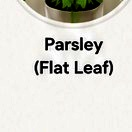
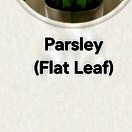
27

diff --git a/sw.js b/sw.js
@@ -1,5 +1,5 @@
-const CACHE='plant-secretary-v49';
-const ASSETS=['./','./index.html','./style.css?v=49','./app.js?v=49','./manifest.json?v=49','./icon.svg?v=49'];
+const CACHE='plant-secretary-v50';
+const ASSETS=['./','./index.html','./style.css?v=50','./app.js?v=50','./manifest.json?v=50','./icon.svg?v=50'];
 self.addEventListener('install',e=>e.waitUntil(caches.open(CACHE).then(c=>c.addAll(ASSETS)).then(()=>self.skipWaiting())));
 self.addEventListener('activate',e=>e.waitUntil(caches.keys().then(keys=>Promise.all(keys.filter(k=>k!==CACHE).map(k=>caches.delete(k)))).then(()=>self.clients.claim())));
 self.addEventListener('fetch',e=>{if(e.request.method!=='GET')return;e.respondWith(fetch(e.request).then(r=>{const copy=r.clone();caches.open(CACHE).then(c=>c.put(e.request,copy));return r;}).catch(()=>caches.match(e.request).then(r=>r||caches.match('./index.html'))));});

diff --git a/index.html b/index.html
@@ -7,9 +7,9 @@
   <meta name="apple-mobile-web-app-capable" content="yes" />
   <meta name="apple-mobile-web-app-status-bar-style" content="default" />
   <meta name="apple-mobile-web-app-title" content="Plant Secretary" />
-  <link rel="manifest" href="manifest.json?v=49" />
-  <link rel="apple-touch-icon" href="icon.svg?v=49" />
-  <link rel="stylesheet" href="style.css?v=49" />
+  <link rel="manifest" href="manifest.json?v=50" />
+  <link rel="apple-touch-icon" href="icon.svg?v=50" />
+  <link rel="stylesheet" href="style.css?v=50" />
   <title>Plant Secretary</title>
 </head>
 <body>
@@ -76,6 +76,6 @@
     <div id="profileContent" class="profile-content"></div>
   </section>
 
-  <script src="app.js?v=49" defer></script>
+  <script src="app.js?v=50" defer></script>
 </body>
 </html>

diff --git a/app.js b/app.js
@@ -333,4 +333,4 @@ el('fortnightShortcut').addEventListener('click',()=>showView('fortnightView'));
 
 renderAll();
 
-if('serviceWorker'in navigator){window.addEventListener('load',()=>navigator.serviceWorker.register('./sw.js?v=49').catch(()=>{}));}
+if('serviceWorker'in navigator){window.addEventListener('load',()=>navigator.serviceWorker.register('./sw.js?v=50').catch(()=>{}));}

diff --git a/style.css b/style.css
@@ -794,3 +794,12 @@
   transform:scale(.92) !important;
   background:#fff !important;
 }
+
+/* v50 — Home/My Plant Collection brightness coherence */
+.collection-item .collection-photo-wrap{
+  background:#fff !important;
+}
+.collection-item .collection-photo{
+  background:#fff !important;
+  filter:saturate(1.02) contrast(.99) !important;
+}

diff --git a/README.md b/README.md
@@ -255,3 +255,11 @@ Fortnight View condenses long lists with “All indoor plants, except …” and
 - Confirmed Peace Lily in Home → My Plant Collection.
 - Peace Lily uses the user-supplied Home reference photo.
 - No Watering Check, watering schedules, Fortnight, profiles, or navigation changes.
+
+## v50
+- Auto-corrected current Home → My Plant Collection raster photos to match Monstera — thick brightness.
+- Monstera — thick is the reference and was left unchanged.
+- Preserved each plant's existing crop/positioning.
+- SVG/non-photo assets were left unchanged.
+- Added a consistent white Home-photo presentation.
+- No Watering Check, watering schedule, watering history, Fortnight, profile, or navigation changes.
